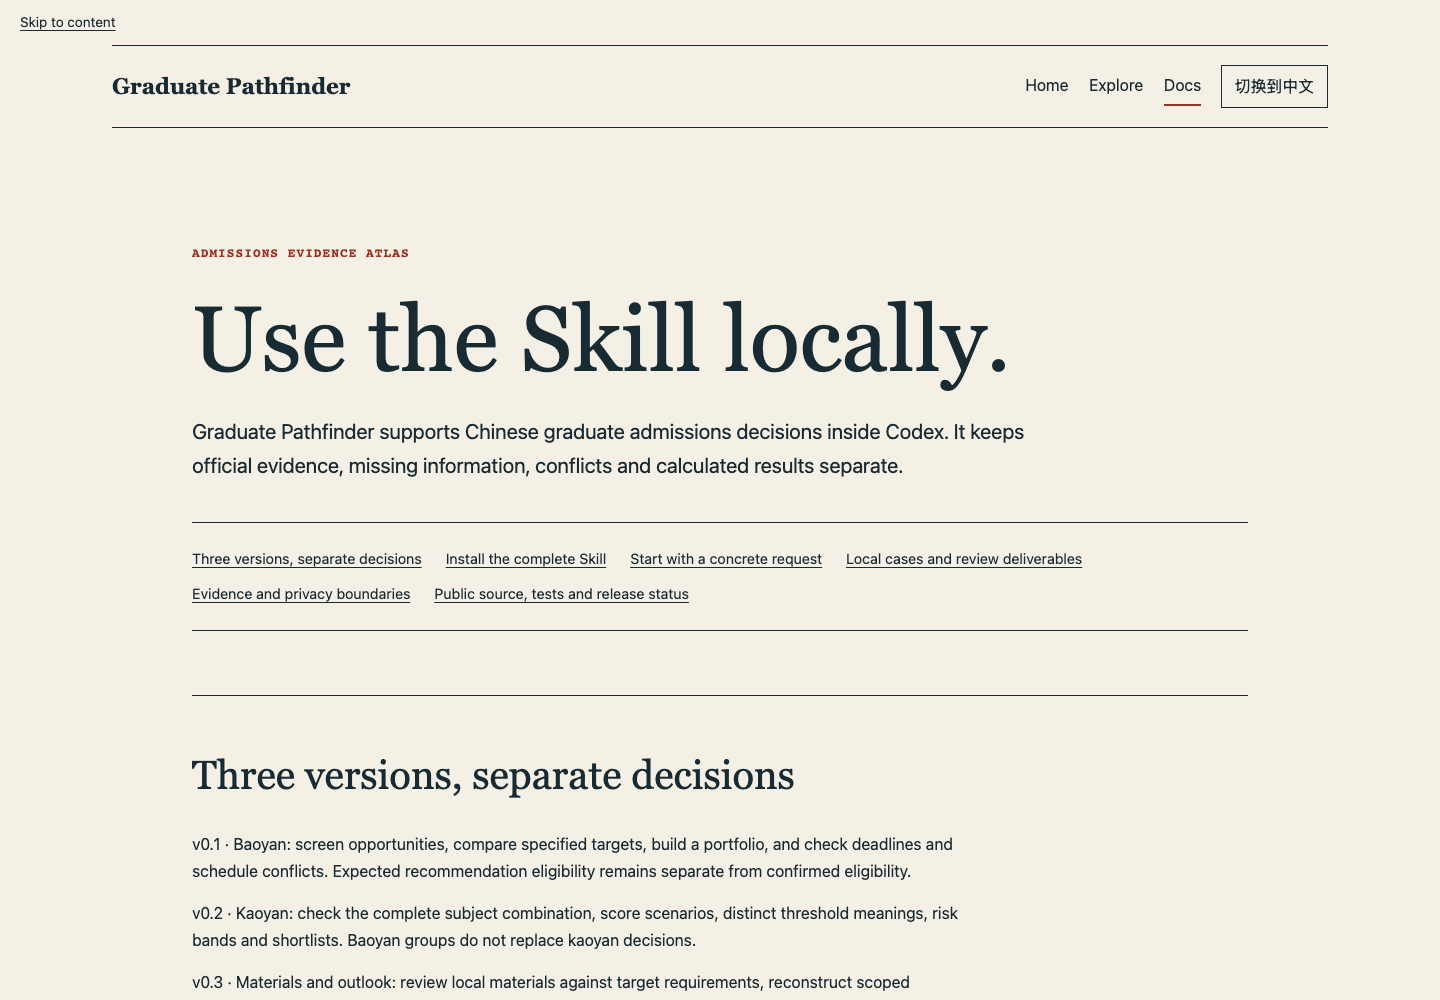
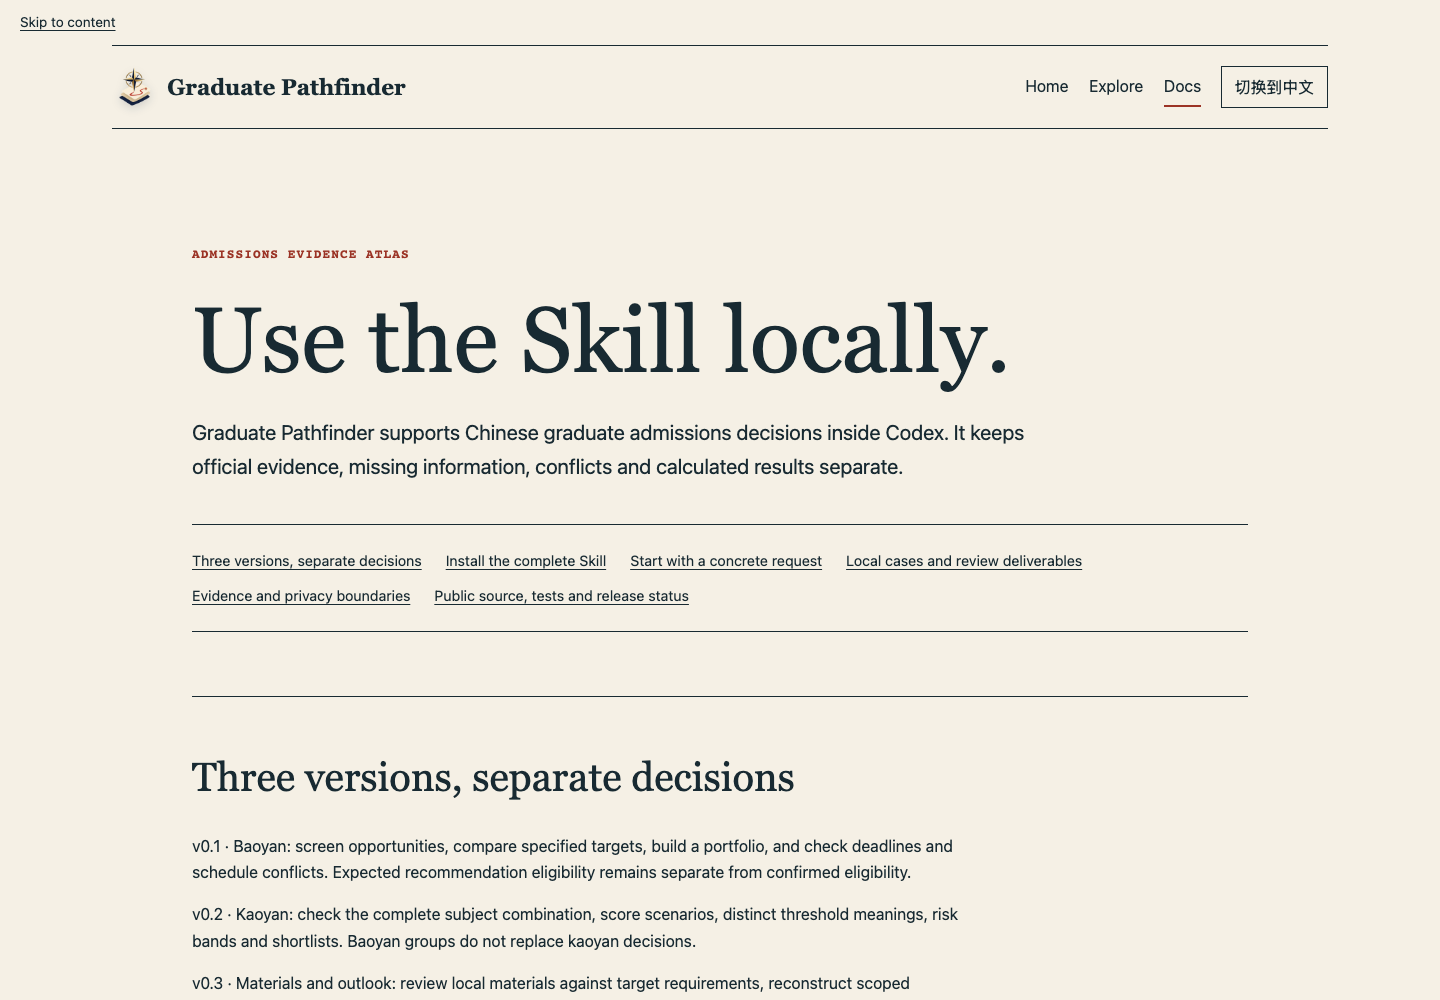
feat: add branded visual identity

diff --git a/web/site/tests/capture.spec.ts b/web/site/tests/capture.spec.ts
@@ -47,6 +47,24 @@ test("README documentation policy validates the repository", async () => {
   expect(await checkSiteAssets(path.resolve(".."))).toEqual([]);
 });
 
+test("README and every site shell expose the project-owned visual identity", async ({ page }) => {
+  const mark = "web/site/assets/generated/graduate-pathfinder-mark.png";
+  for (const readme of ["README.md", "README.zh-CN.md"]) {
+    const text = await fs.readFile(path.resolve("..", readme), "utf8");
+    expect(text).toContain(`<img src="${mark}"`);
+    for (const artwork of ["admissions-atlas-hero", "materials-review", "campus-route"]) {
+      expect(text).toContain(`web/site/assets/generated/${artwork}.webp`);
+    }
+  }
+  for (const route of ["/graduate-pathfinder/", "/graduate-pathfinder/explore.html", "/graduate-pathfinder/docs.html"]) {
+    await page.goto(route);
+    await expect(page.locator('link[rel="icon"]')).toHaveAttribute("href", "./assets/generated/graduate-pathfinder-mark.png");
+    const logo = page.locator("a.brand img.brand-mark");
+    await expect(logo).toBeVisible();
+    await expect(logo).toHaveAttribute("src", "./assets/generated/graduate-pathfinder-mark.png");
+  }
+});
+
 test("README documentation policy rejects broken asset, link, provenance and release fixtures", async () => {
   const { checkSiteAssets } = await load("../scripts/check-site-assets.mjs");
   const root = await fs.mkdtemp(path.join(os.tmpdir(), "gp-assets-"));
@@ -58,10 +76,13 @@ test("README documentation policy rejects broken asset, link, provenance and rel
     png.writeUInt32BE(1440, 16); png.writeUInt32BE(1000, 20);
     for (const name of images) await fs.writeFile(path.join(root, "docs/assets", name), png);
     const baseline = "[English](README.md) [中文](README.zh-CN.md)\n" +
+      '<img src="web/site/assets/generated/graduate-pathfinder-mark.png" alt="Graduate Pathfinder project-owned compass and evidence-card mark">\n' +
+      ["admissions-atlas-hero", "materials-review", "campus-route"].map(name => `<img src="web/site/assets/generated/${name}.webp" alt="Original conceptual admissions artwork ${name}">`).join("\n") + "\n" +
       images.map(name => `![Synthetic product walkthrough ${name}](docs/assets/${name})`).join("\n") +
       "\n[Home](https://z-lab-boop.github.io/graduate-pathfinder/) [Explore](https://z-lab-boop.github.io/graduate-pathfinder/explore.html) [Docs](https://z-lab-boop.github.io/graduate-pathfinder/docs.html) [Install](https://z-lab-boop.github.io/graduate-pathfinder/docs.html#install) [Release](https://z-lab-boop.github.io/graduate-pathfinder/docs.html#source)";
     // The policy also checks actual artwork hashes; copy the approved provenance corpus.
     await fs.cp(path.resolve("site/assets/generated"), path.join(root, "web/site/assets/generated"), { recursive: true });
+    await fs.copyFile(path.resolve("../docs/assets/graduate-pathfinder-mark-source.png"), path.join(root, "docs/assets/graduate-pathfinder-mark-source.png"));
     for (const name of ["README.md", "README.zh-CN.md"]) await fs.writeFile(path.join(root, name), baseline);
     expect(await checkSiteAssets(root)).toEqual([]);
     const home = path.join(root, "docs/assets/site-home.png");

diff --git a/web/site/index.html b/web/site/index.html
@@ -5,6 +5,7 @@
   <meta name="viewport" content="width=device-width, initial-scale=1">
   <meta name="description" content="A local-first Codex Skill for Chinese graduate admissions decisions, with evidence, unknowns and conflicts kept visible.">
   <title>Graduate Pathfinder | Every claim needs a source</title>
+  <link rel="icon" href="./assets/generated/graduate-pathfinder-mark.png" type="image/png">
   <link rel="stylesheet" href="./assets/site.css">
   <noscript><style>.language-switch { display: none; }</style></noscript>
   <script type="module" src="./assets/site.js"></script>
@@ -12,7 +13,7 @@
 <body data-page="home">
   <a class="skip-link" href="#content" data-i18n="skip">Skip to content</a>
   <header class="site-header shell">
-    <a class="brand" href="./" data-i18n="brand">Graduate Pathfinder</a>
+    <a class="brand" href="./"><img class="brand-mark" src="./assets/generated/graduate-pathfinder-mark.png" width="44" height="44" alt="" aria-hidden="true"><span data-i18n="brand">Graduate Pathfinder</span></a>
     <nav aria-label="Main navigation" data-i18n-label="nav.label">
       <a href="./" aria-current="page" data-i18n="nav.home">Home</a>
       <a href="./explore.html" data-i18n="nav.explore">Explore</a>

diff --git a/web/site/explore.html b/web/site/explore.html
@@ -5,6 +5,7 @@
   <meta name="viewport" content="width=device-width, initial-scale=1">
   <meta name="description" content="A synthetic walkthrough of evidence-led material review and target comparison. Fictional data only; no uploads.">
   <title>Explore | Graduate Pathfinder</title>
+  <link rel="icon" href="./assets/generated/graduate-pathfinder-mark.png" type="image/png">
   <link rel="stylesheet" href="./assets/site.css">
   <noscript><style>.language-switch { display: none; }</style></noscript>
   <script type="module" src="./assets/site.js"></script>
@@ -12,7 +13,7 @@
 <body data-page="explore">
   <a class="skip-link" href="#content" data-i18n="skip">Skip to content</a>
   <header class="site-header shell">
-    <a class="brand" href="./" data-i18n="brand">Graduate Pathfinder</a>
+    <a class="brand" href="./"><img class="brand-mark" src="./assets/generated/graduate-pathfinder-mark.png" width="44" height="44" alt="" aria-hidden="true"><span data-i18n="brand">Graduate Pathfinder</span></a>
     <nav aria-label="Main navigation" data-i18n-label="nav.label">
       <a href="./" data-i18n="nav.home">Home</a>
       <a href="./explore.html" aria-current="page" data-i18n="nav.explore">Explore</a>

diff --git a/web/site/docs.html b/web/site/docs.html
@@ -5,6 +5,7 @@
   <meta name="viewport" content="width=device-width, initial-scale=1">
   <meta name="description" content="Understand Graduate Pathfinder, its complete local Skill directory, and evidence and privacy boundaries.">
   <title>Docs | Graduate Pathfinder</title>
+  <link rel="icon" href="./assets/generated/graduate-pathfinder-mark.png" type="image/png">
   <link rel="stylesheet" href="./assets/site.css">
   <noscript><style>.language-switch { display: none; }</style></noscript>
   <script type="module" src="./assets/site.js"></script>
@@ -12,7 +13,7 @@
 <body data-page="docs">
   <a class="skip-link" href="#content" data-i18n="skip">Skip to content</a>
   <header class="site-header shell">
-    <a class="brand" href="./" data-i18n="brand">Graduate Pathfinder</a>
+    <a class="brand" href="./"><img class="brand-mark" src="./assets/generated/graduate-pathfinder-mark.png" width="44" height="44" alt="" aria-hidden="true"><span data-i18n="brand">Graduate Pathfinder</span></a>
     <nav aria-label="Main navigation" data-i18n-label="nav.label">
       <a href="./" data-i18n="nav.home">Home</a>
       <a href="./explore.html" data-i18n="nav.explore">Explore</a>

diff --git a/web/site/src/site.css b/web/site/src/site.css
@@ -25,7 +25,8 @@ button, a { -webkit-tap-highlight-color: transparent; }
 .shell { width: min(100% - 2.5rem, 76rem); margin-inline: auto; }
 .skip-link { display: inline-block; margin: 0.7rem 1.25rem; font-size: 0.85rem; }
 .site-header { display: flex; align-items: center; flex-wrap: wrap; gap: 1.25rem; padding-block: 1.2rem; border-block: 1px solid var(--ink); }
-.brand { font-family: Georgia, "Songti SC", serif; font-size: 1.4rem; font-weight: 700; text-decoration: none; }
+.brand { display: inline-flex; align-items: center; gap: 0.7rem; font-family: Georgia, "Songti SC", serif; font-size: 1.4rem; font-weight: 700; text-decoration: none; }
+.brand-mark { width: 2.75rem; height: 2.75rem; object-fit: contain; filter: drop-shadow(0 0.22rem 0.3rem rgb(14 31 54 / 0.16)); }
 nav { display: flex; flex-wrap: wrap; gap: 1.3rem; margin-inline-start: auto; }
 nav a { padding: 0.35rem 0; text-decoration: none; }
 nav a[aria-current="page"] { border-bottom: 2px solid var(--cinnabar); }

diff --git a/README.md b/README.md
@@ -1,14 +1,29 @@
-# Graduate Pathfinder · 研途择校
+<p align="center">
+  <img src="web/site/assets/generated/graduate-pathfinder-mark.png" width="168" alt="Graduate Pathfinder logo: a compass star rising from layered evidence cards along a vermilion route">
+</p>
 
-A local-first Codex Skill for Chinese graduate admissions decisions. Review materials, compare targets, and keep official evidence, unknowns, conflicts and calculations separate.
+<h1 align="center">Graduate Pathfinder · 研途择校</h1>
 
-[中文完整版](README.zh-CN.md)
+<p align="center"><strong>Trace evidence. Compare paths. Keep uncertainty visible.</strong><br>A local-first Codex Skill for Chinese graduate admissions decisions.</p>
+
+<p align="center"><a href="README.zh-CN.md">中文完整版</a> · <a href="https://z-lab-boop.github.io/graduate-pathfinder/">Public site</a> · <a href="https://z-lab-boop.github.io/graduate-pathfinder/explore.html">Synthetic Explore</a> · <a href="https://z-lab-boop.github.io/graduate-pathfinder/docs.html">Docs</a></p>
+
+<p align="center"><code>local-first</code> · <code>evidence-first</code> · <code>English / 中文</code> · <code>v0.3</code></p>
 
 ![Graduate Pathfinder Home with evidence-first guidance and clearly labeled conceptual admissions artwork](docs/assets/site-home.png)
 
-[Public site](https://z-lab-boop.github.io/graduate-pathfinder/) · [Explore the synthetic case](https://z-lab-boop.github.io/graduate-pathfinder/explore.html) · [Docs](https://z-lab-boop.github.io/graduate-pathfinder/docs.html) · [Installation](https://z-lab-boop.github.io/graduate-pathfinder/docs.html#install) · [Release status](https://z-lab-boop.github.io/graduate-pathfinder/docs.html#source)
+[Installation](https://z-lab-boop.github.io/graduate-pathfinder/docs.html#install) · [Release status](https://z-lab-boop.github.io/graduate-pathfinder/docs.html#source)
 
 The public site is a synthetic walkthrough with fictional applicants and institutions. It accepts no uploads, has no tracking, and offers no personal admission probability or guarantee. Concept artwork is labeled separately from synthetic product screenshots. No tagged binary release is published; install the complete source repository. Website assets and screenshots are documentation, not release binaries. These links identify the intended Pages routes; local verification does not establish live deployment.
+
+## Visual atlas
+
+Three visual metaphors introduce the product journey. They are original generated artwork—not applicant evidence, real documents or identifiable institutions.
+
+| Evidence atlas | Material review | Route mapping |
+| :---: | :---: | :---: |
+| <img src="web/site/assets/generated/admissions-atlas-hero.webp" alt="Blank archival folders connected by a scoped evidence timeline" width="320"> | <img src="web/site/assets/generated/materials-review.webp" alt="Anonymous material layers with evidence tabs and an unlettered seal" width="320"> | <img src="web/site/assets/generated/campus-route.webp" alt="Fictional architectural passage crossed by several possible routes" width="320"> |
+| Trace every claim back to a source. | Review readiness, gaps and conflicts separately. | Compare routes without turning history into a promise. |
 
 ## Product boundaries
 

diff --git a/README.zh-CN.md b/README.zh-CN.md
@@ -1,14 +1,29 @@
-# 研途择校 · Graduate Pathfinder
+<p align="center">
+  <img src="web/site/assets/generated/graduate-pathfinder-mark.png" width="168" alt="研途择校标志：指南针星从层叠证据卡片上升起，朱砂路线通向目标点">
+</p>
 
-一个面向中国研究生招生决策的本地优先 Codex Skill：复核材料、比较目标，并将官方证据、未知项、冲突与计算结果分开呈现。
+<h1 align="center">研途择校 · Graduate Pathfinder</h1>
 
-[English](README.md)
+<p align="center"><strong>循证据，辨路径，让不确定性保持可见。</strong><br>一个面向中国研究生招生决策的本地优先 Codex Skill。</p>
+
+<p align="center"><a href="README.md">English</a> · <a href="https://z-lab-boop.github.io/graduate-pathfinder/">公开站点</a> · <a href="https://z-lab-boop.github.io/graduate-pathfinder/explore.html">合成案例</a> · <a href="https://z-lab-boop.github.io/graduate-pathfinder/docs.html">文档</a></p>
+
+<p align="center"><code>本地优先</code> · <code>证据优先</code> · <code>English / 中文</code> · <code>v0.3</code></p>
 
 ![Graduate Pathfinder 首页：证据优先的产品说明与明确标注的招生档案概念艺术](docs/assets/site-home.png)
 
-[公开站点](https://z-lab-boop.github.io/graduate-pathfinder/) · [合成案例演示](https://z-lab-boop.github.io/graduate-pathfinder/explore.html) · [文档](https://z-lab-boop.github.io/graduate-pathfinder/docs.html) · [安装说明](https://z-lab-boop.github.io/graduate-pathfinder/docs.html#install) · [发布状态](https://z-lab-boop.github.io/graduate-pathfinder/docs.html#source)
+[安装说明](https://z-lab-boop.github.io/graduate-pathfinder/docs.html#install) · [发布状态](https://z-lab-boop.github.io/graduate-pathfinder/docs.html#source)
 
 公开站点仅演示虚构申请者与虚构院校，不接收上传、不追踪用户，不提供个人录取概率或录取保证。概念艺术与合成产品截图分别标注。目前未发布带二进制附件的标签版本，请安装完整源码仓库；网站资源与截图属于文档，不是二进制发布物。以上链接是预定 Pages 路由，本地核验不证明站点已上线。
+
+## 视觉图谱
+
+三张原创概念艺术分别表现产品旅程中的证据、材料和路线。它们不是申请者证据、真实材料或可识别院校图像。
+
+| 证据图谱 | 材料复核 | 路线比较 |
+| :---: | :---: | :---: |
+| <img src="web/site/assets/generated/admissions-atlas-hero.webp" alt="空白档案夹通过明确口径的证据时间线相连" width="320"> | <img src="web/site/assets/generated/materials-review.webp" alt="匿名材料分层、证据标签与无文字印章" width="320"> | <img src="web/site/assets/generated/campus-route.webp" alt="虚构建筑廊道中延伸出多条可选路线" width="320"> |
+| 每个结论都回溯到来源。 | 分开复核就绪度、缺口与冲突。 | 比较不同路径，不把历史数据写成承诺。 |
 
 ## 产品边界
 

diff --git a/docs/assets/README.md b/docs/assets/README.md
@@ -1,6 +1,6 @@
 # Public site documentation captures
 
-`site-home.png`, `site-explore.png` and `site-docs.png` are browser-generated product screenshots, separate from the labeled conceptual artwork under `web/site/assets/generated/`. Explore contains committed fictional data only. No real applicant, institution, material or admissions outcome is represented.
+`site-home.png`, `site-explore.png` and `site-docs.png` are browser-generated product screenshots, separate from the labeled conceptual artwork under `web/site/assets/generated/`. Explore contains committed fictional data only. No real applicant, institution, material or admissions outcome is represented. `graduate-pathfinder-mark-source.png` is the transparent 1254 px source for the project-owned compass/evidence-card brand mark; its generation prompt, inspection and derivative hash are recorded in the [artwork audit](../../web/site/assets/generated/README.md).
 
 Regenerate from the repository root with `npm --prefix web run capture:site`. The command builds the site, forks exactly `web/site/capture-server.mjs` with private Node IPC, binds port 0 on 127.0.0.1, and validates the owned child PID, canonical root, host and dynamic port before Chromium launches. No fixed/foreign HTTP listener can signal readiness. Root/bind errors, timeout, early exit and invalid IPC reject capture. The owned child is always terminated, including browser/page failures.
 
